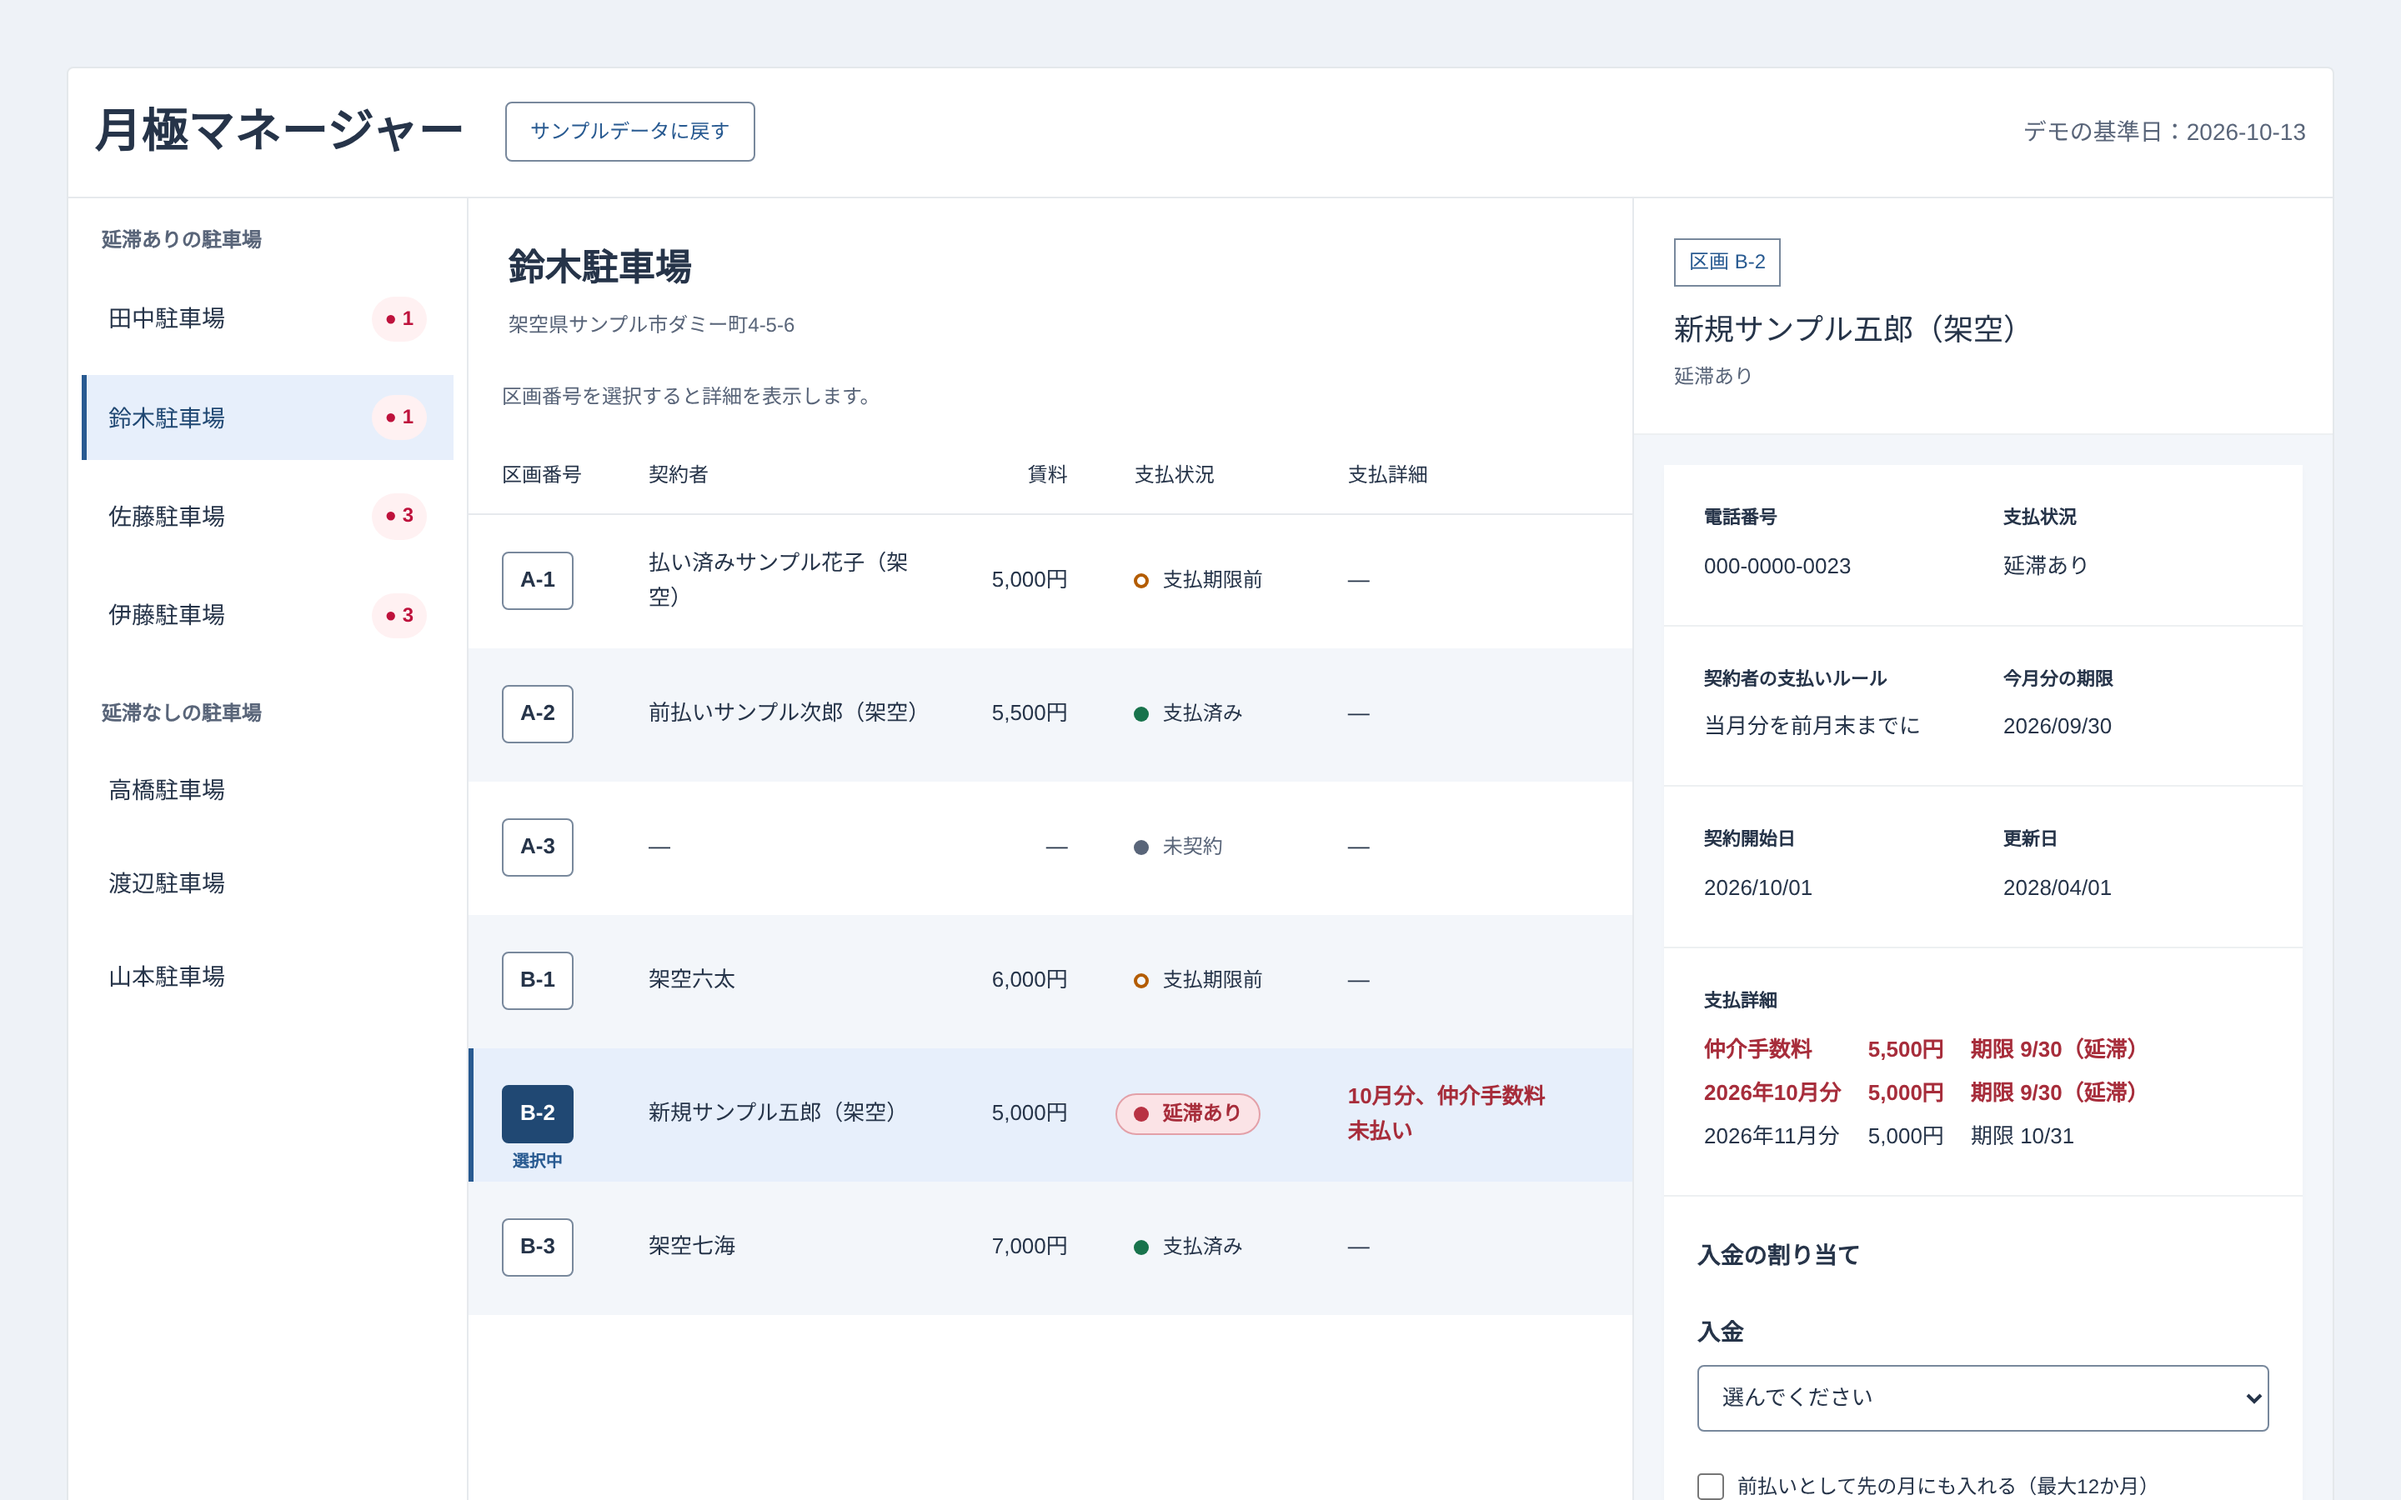
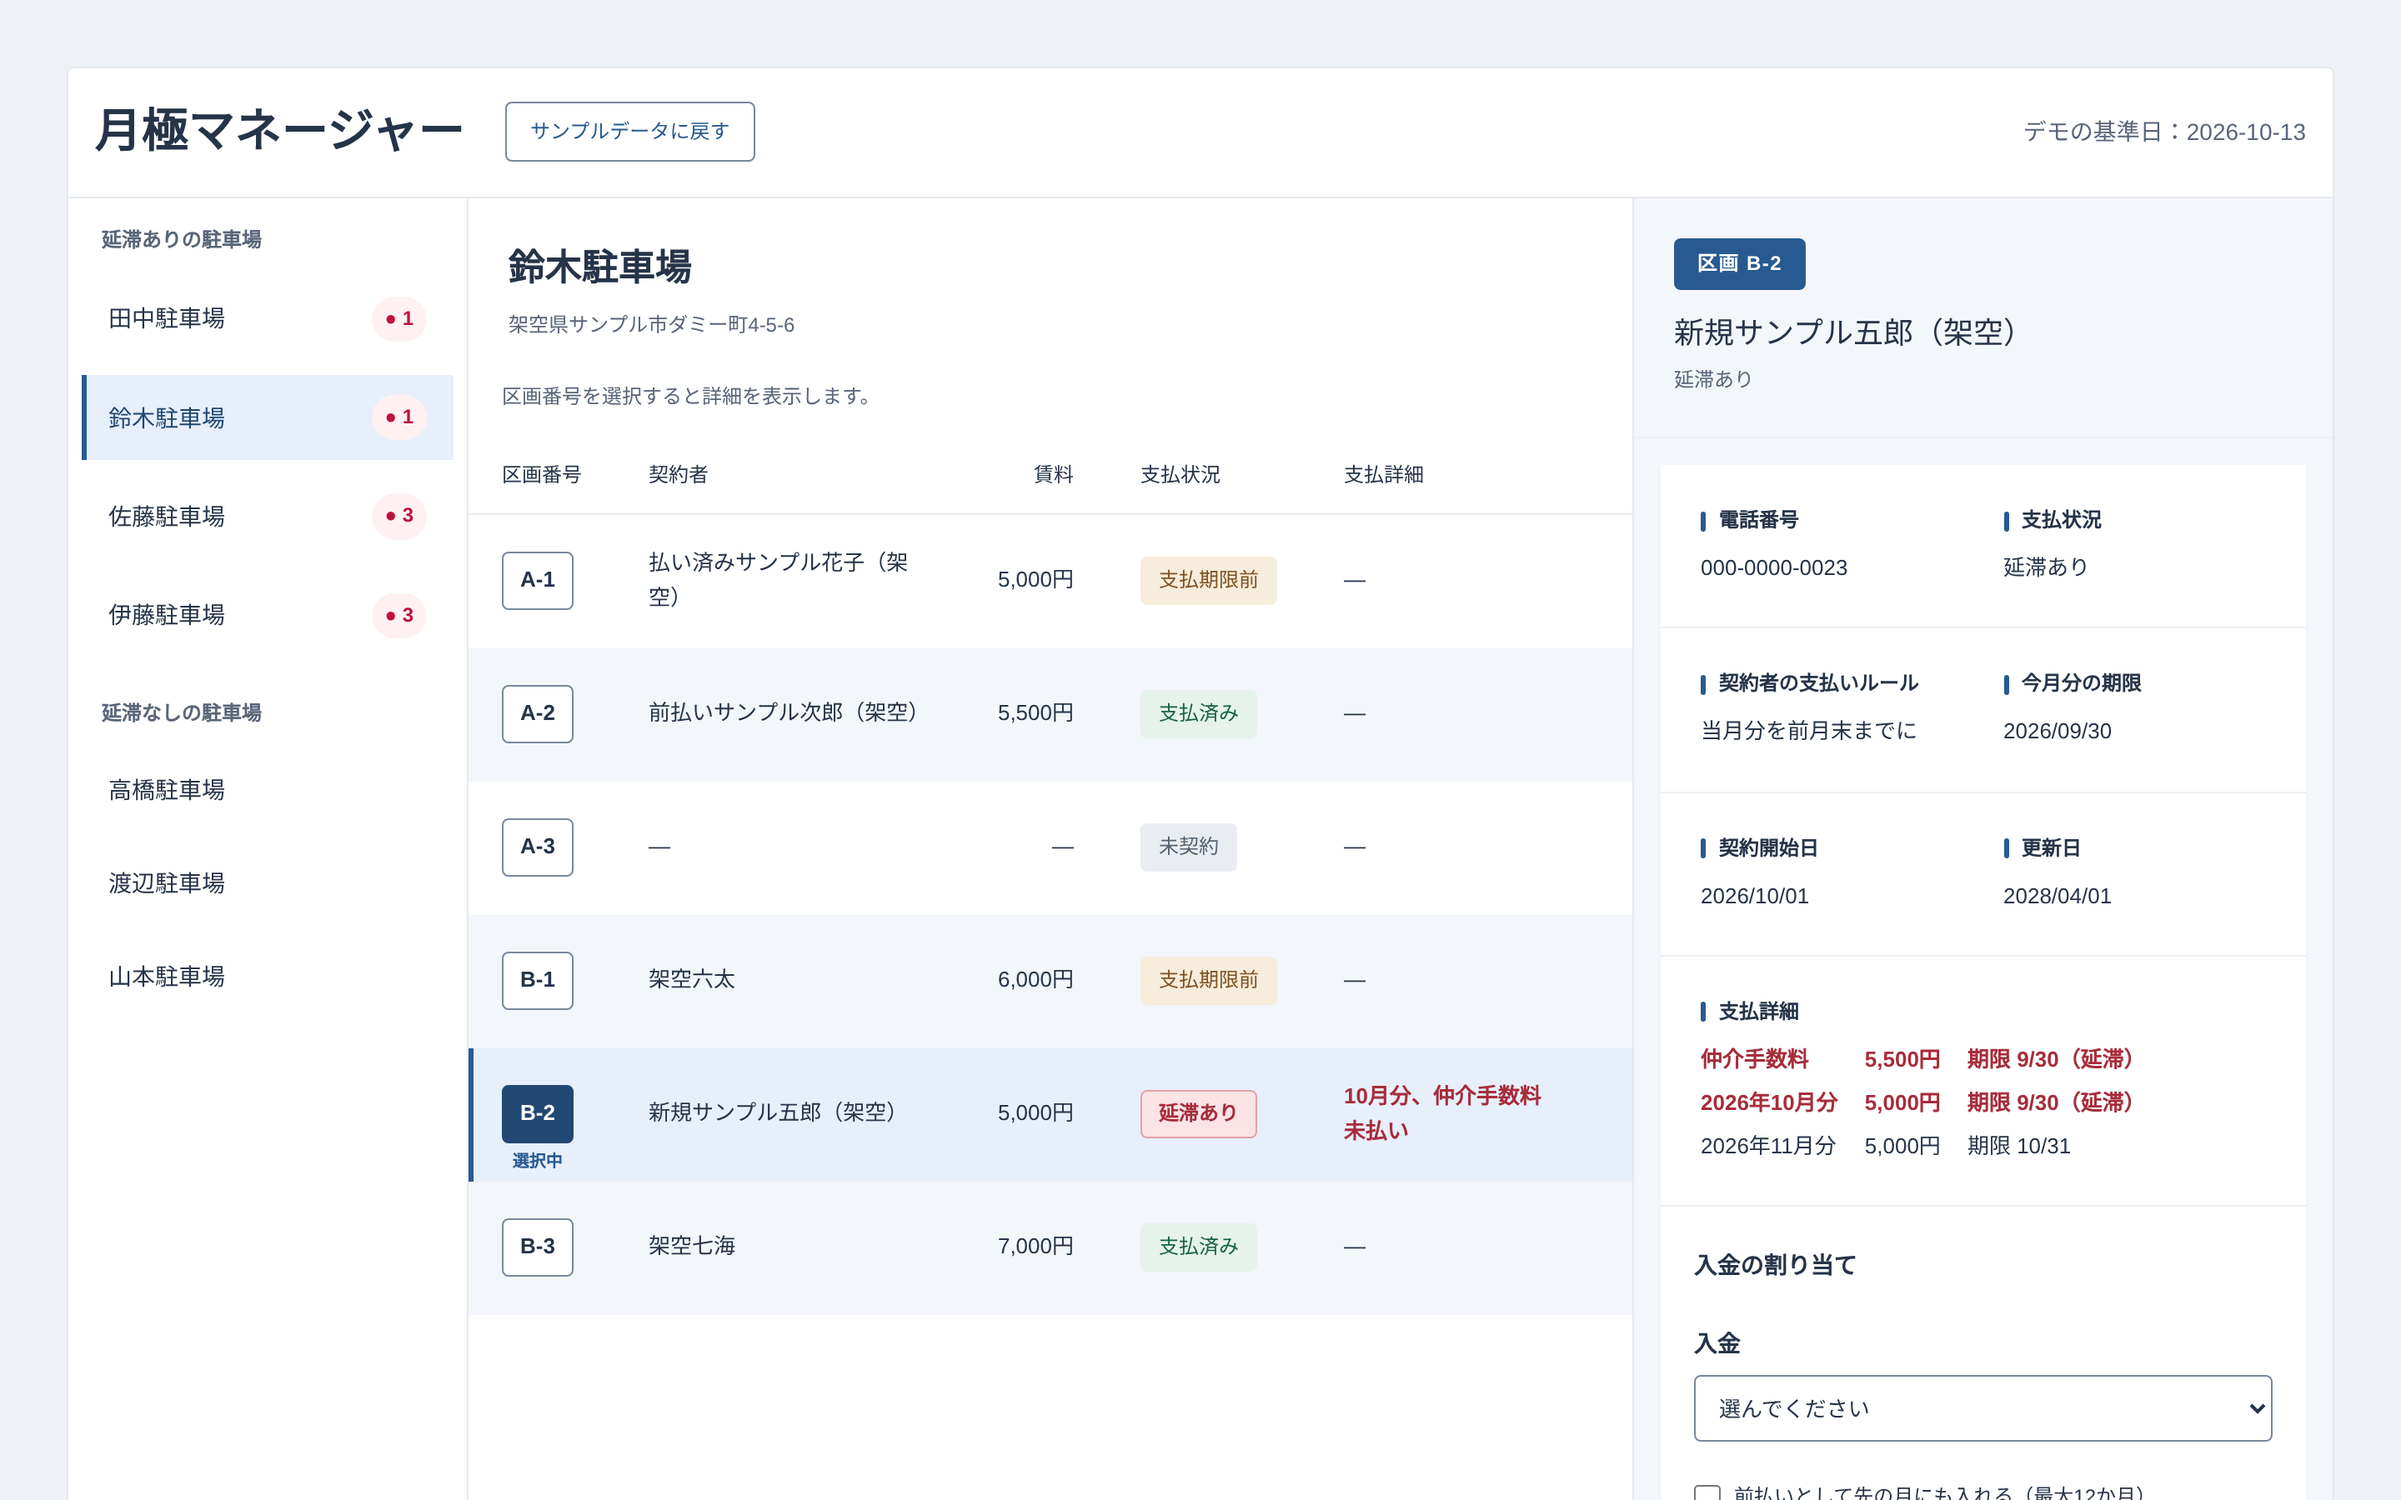
見た目の調整

diff --git a/src/components/SpaceCell.module.css b/src/components/SpaceCell.module.css
@@ -101,15 +101,14 @@
 .status {
   display: inline-flex;
   align-items: center;
-  gap: 8px;
-  padding: 2px 10px;
-  margin-inline-start: -11px;
+  justify-content: center;
+  padding: 4px 10px;
 
   white-space: nowrap;
   font-size: 12px;
 
   border: solid 1px transparent;
-  border-radius: 999px;
+  border-radius: 4px;
 }
 
 .overdue {
@@ -119,37 +118,28 @@
   font-weight: 600;
 }
 
-.dot {
-  width: 9px;
-  height: 9px;
-
-  border-radius: 50%;
-  background: #596579;
-  
-  flex-shrink: 0;
+.paid {
+  color: #176342;
+  background: #e5f3eb;
 }
 
-.paid .dot {
-  background: #18734c;
+.prepaid {
+  color: #245e81;
+  background: #e5eff7;
 }
 
-.prepaid .dot {
-  background: #246993;
+.due {
+  color: #80501e;
+  background: #f7eddd;
 }
 
-.overdue .dot {
-  background: var(--overdue-dot);
-}
-
-.due .dot {
-  background: transparent;
-  box-shadow: inset 0 0 0 2px #b35c00;
-}
-.unknown .dot,
-.feeMissing .dot {
-  background: #946300;
+.unknown,
+.feeMissing {
+  color: #775514;
+  background: #f7efcf;
 }
 
 .vacant {
-  color: var(--text-muted);
+  color: #566171;
+  background: #e9edf1;
 }

diff --git a/src/components/SpaceDetail.module.css b/src/components/SpaceDetail.module.css
@@ -24,17 +24,20 @@
 .heading {
   padding: 24px;
 
-  background: #fff;
   border-bottom: 1px solid #edf0f2;
 
   .number {
     display: inline-block;
-    padding: 4px 8px;
+    padding: 4px 12px;
 
-    color: var(--accent);
+    color: #fff;
     font-size: 12px;
+    font-weight: 700;
+    letter-spacing: 0.06em;
 
-    border: solid 1px var(--control-border);
+    border: solid 2px var(--accent);
+    border-radius: 4px;
+    background: var(--accent);
   }
 
   h2 {
@@ -52,9 +55,8 @@
   }
 }
 
-/* ===== 本文（項目の一覧と割り当てフォーム） ===== */
 .content {
-  margin: 18px;
+  margin: 16px;
 
   background: #fff;
   box-shadow: 0 2px 5px #18243d05;
@@ -71,11 +73,25 @@
   padding: 24px;
 
   dt {
+    display: flex;
+    align-items: center;
+    gap: 8px;
+
     margin-bottom: 8px;
 
-    font-size: 11px;
+    font-size: 12px;
     font-weight: 600;
     color: var(--text);
+
+    &::before {
+      content: '';
+
+      width: 3px;
+      height: 12px;
+
+      border-radius: 2px;
+      background: var(--accent);
+    }
   }
 
   dd {

diff --git a/src/components/SpaceCell.tsx b/src/components/SpaceCell.tsx
@@ -36,7 +36,7 @@ export default function SpaceCell({ space, onSelect, selectedSpaceId, contracts,
       </th>
       <td className={styles.person}>{status === 'vacant' ? '—' : person?.name ?? '契約者データなし'}</td>
       <td className={styles.rent}>{rent !== null ? `${rent.toLocaleString("ja-JP")}円` : contract ? "未設定" : "—"}</td>
-      <td><span className={`${styles.status} ${styles[status]}`}><span className={styles.dot} />{statusLabels[status]}</span></td>
+      <td><span className={`${styles.status} ${styles[status]}`}>{statusLabels[status]}</span></td>
       <td className={status === 'overdue' ? `${paymentDetailStyles.detail} ${paymentDetailStyles.overdue}` : paymentDetailStyles.detail}>
         {paymentDetail(result)}
       </td>
